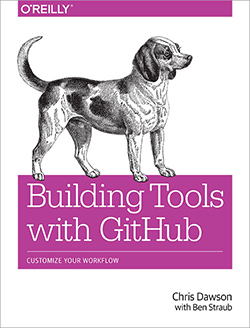
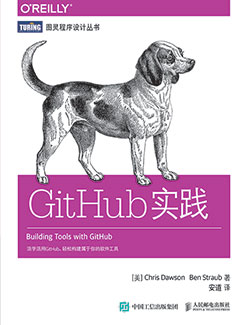
Update building-tools-with-github book info

Changed region(s): [[0.0, 0.0, 1.0, 1.0], [0.896, 0.0, 0.952, 0.0615]]

diff --git a/_books/building-tools-with-github.md b/_books/building-tools-with-github.md
@@ -5,24 +5,36 @@ book_category: other
 
 ## 简介
 
-加工中。
+本书一窥 GitHub 内部使用的工具，以叙事的方式描述构建软件元工具的相关过程，其中不只介绍相关的技术，还会说明折中方案、重构的现实意义，以及编写元工具所面临的挑战。对已经熟悉 Git 或 GitHub、想提升相关技能的读者，书中介绍了如何使用 GitHub API 及相关的开源技术，如 Jekyll（网站生成工具）、Hubot（NodeJS 聊天机器人）和 Gollum（维基）构建工具。 
 
 ## 作者
 
-加工中。
+**Chris Dawson**，曾就职于 Apple、Virage 和 RealNetworks 等知名 IT 企业，现于 eBay 工作。他积极参与并见证了 GitHub 的发展，自己也开了一家公司 Webiphany。 
+
+**Ben Straub**，IT 服务公司 Gridium 的开发人员，热衷于开发优秀的软件，最近刚加入 GitHub。除写过多本书之外，他还兼职在线软件开发培训。 
 
 ## 目录
 
-加工中。
+- [前言](http://www.ituring.com.cn/tupubarticle/11823) 
+- [第 1 章　开放的 GitHub API](http://www.ituring.com.cn/tupubarticle/11824)  
+- 第 2 章　Gist 和 Gist API   
+- 第 3 章　GitHub 使用的维基库 Gollum  
+- 第 4 章　Python 和 Search API   
+- 第 5 章　.NET 和 Commit Status API  
+- 第 6 章　Ruby 和 Jekyll 
+- 第 7 章　Android 和 Git Data API    
+- 第 8 章　CoffeeScript、Hubot 和 Activity API 
+- 第 9 章　JavaScript 和 Git Data API 
+- 附录 A　GitHub 企业版 
+- 附录 B　GitHub 对 Ruby、NodeJS（和 shell）的利用
 
 ## 勘误
 
-加工中。
+如果您在阅读本书过程中发现了错误，欢迎[指正](http://www.ituring.com.cn/book/1820)。
 
 ## 大事记
 
-加工中。
-
-## 词汇表
-
-加工中。
+- 2016.04.11 开始翻译
+- 2016.06.03 初译完成
+- 2016.06.21 交稿
+- 2016.11 出版
